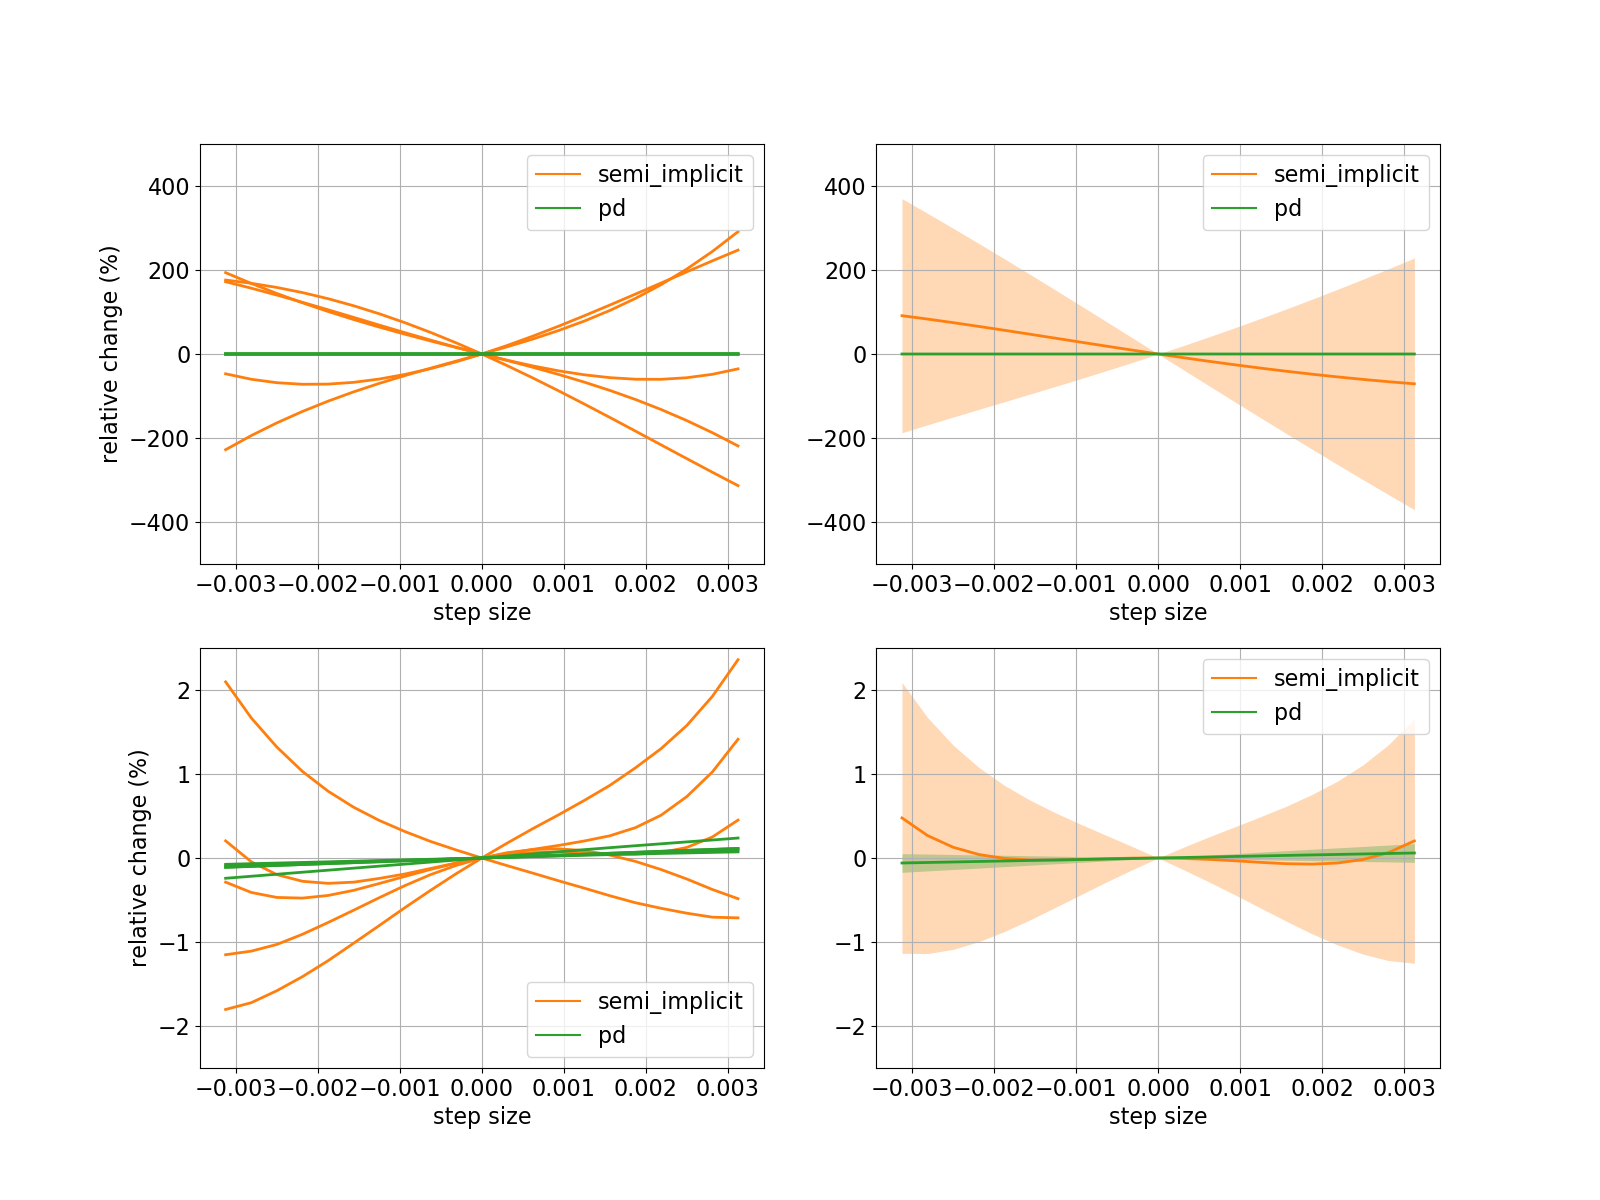
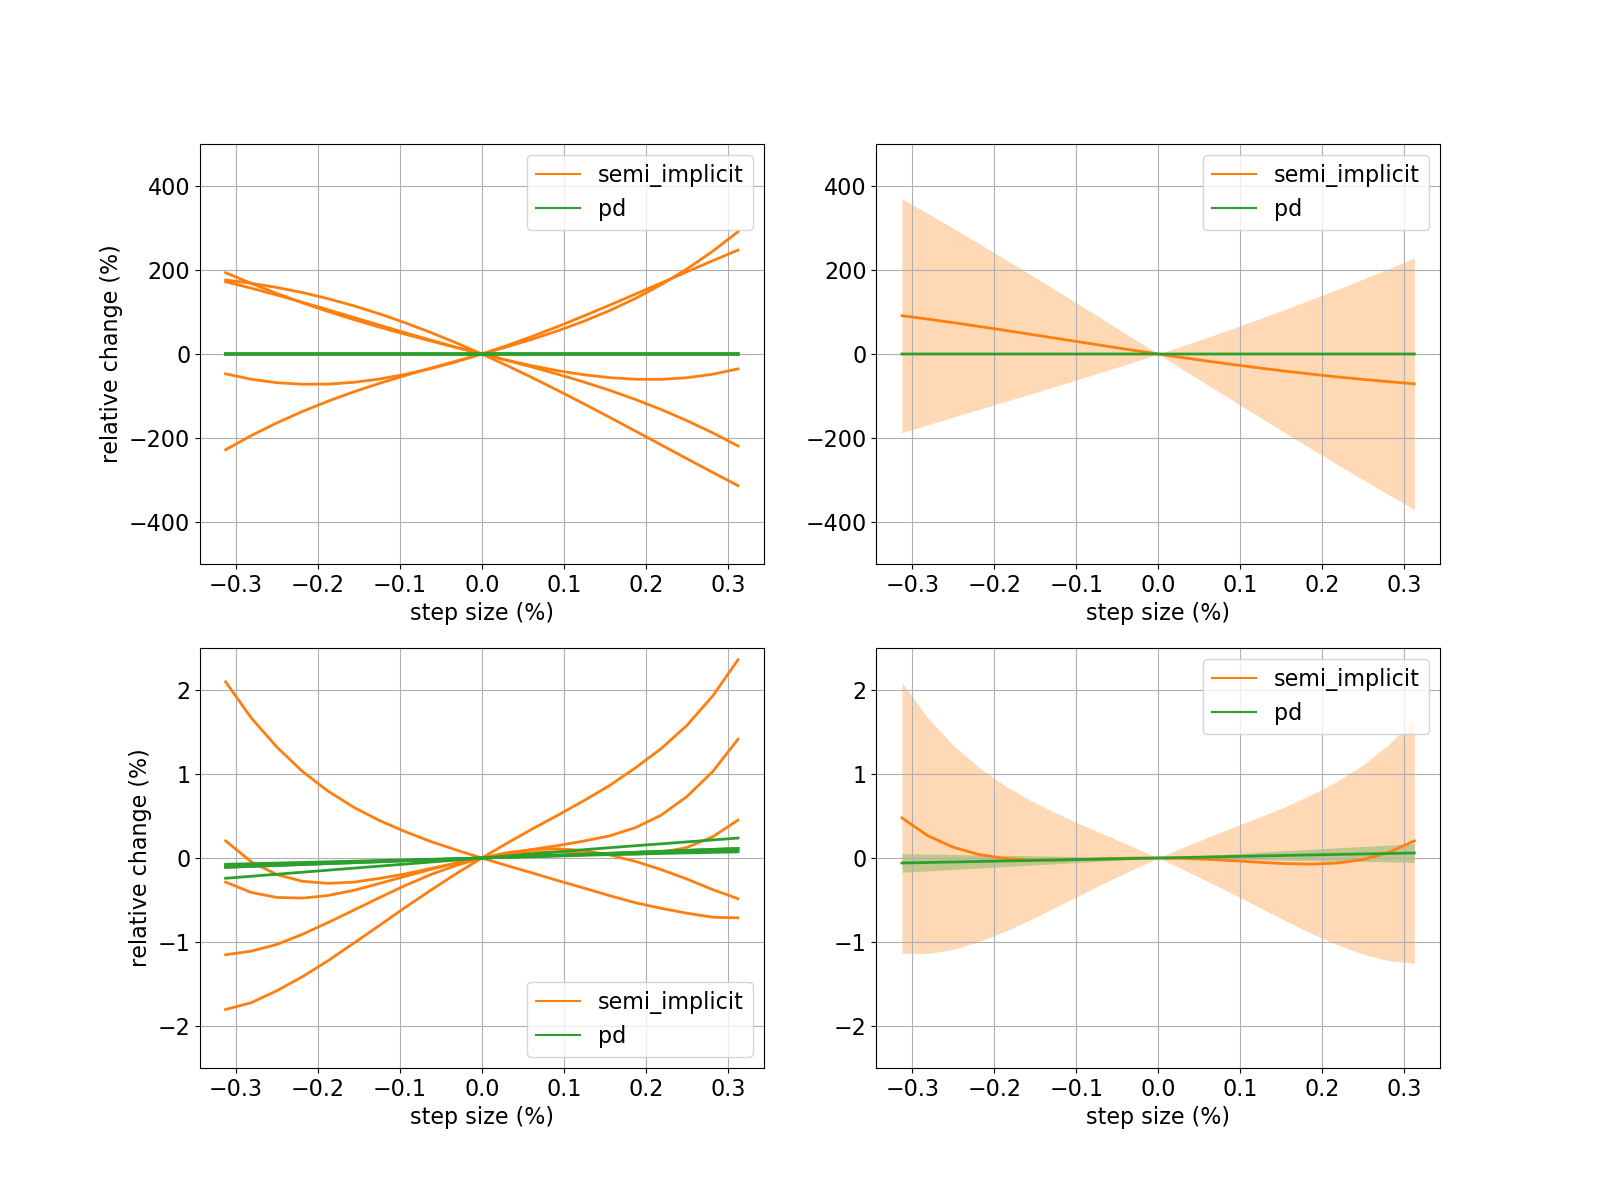
Adjust figure axes in landscape_3d. [skip ci]

diff --git a/python/example/print_landscape_3d_table.py b/python/example/print_landscape_3d_table.py
@@ -40,8 +40,8 @@ if __name__ == '__main__':
         losses = all_losses[method]
         ax_loss_sample.plot([], [], color=color, label=method)
         for loss in losses[:5]:
-            ax_loss_sample.plot(ss * rel_scale, (loss - 1) * 100, color=color, linewidth=2)
-    ax_loss_sample.set_xlabel('step size')
+            ax_loss_sample.plot((ss * rel_scale) * 100, (loss - 1) * 100, color=color, linewidth=2)
+    ax_loss_sample.set_xlabel('step size (%)')
     ax_loss_sample.set_ylabel('relative change (%)')
     ax_loss_sample.set_ylim([-500, 500])
     ax_loss_sample.grid(True)
@@ -53,11 +53,10 @@ if __name__ == '__main__':
         ax_loss_all.plot([], [], color=color, label=method)
         loss_mean = np.mean(ndarray(losses), axis=0)
         loss_std = np.std(ndarray(losses), axis=0)
-        ax_loss_all.plot(ss * rel_scale, (loss_mean - 1) * 100, color=color, linewidth=2)
-        ax_loss_all.fill_between(ss * rel_scale, (loss_mean - 1 - loss_std) * 100,
+        ax_loss_all.plot((ss * rel_scale) * 100, (loss_mean - 1) * 100, color=color, linewidth=2)
+        ax_loss_all.fill_between((ss * rel_scale) * 100, (loss_mean - 1 - loss_std) * 100,
             (loss_mean - 1 + loss_std) * 100, color=color, alpha=0.3, linewidth=0)
-
-    ax_loss_all.set_xlabel('step size')
+    ax_loss_all.set_xlabel('step size (%)')
     ax_loss_all.set_ylim([-500, 500])
     ax_loss_all.grid(True)
     ax_loss_all.legend()
@@ -68,8 +67,8 @@ if __name__ == '__main__':
         ax_grad_sample.plot([], [], color=color, label=method)
         for grad in grads[:5]:
             g = [np.linalg.norm(g[0]) for g in grad]
-            ax_grad_sample.plot(ss * rel_scale, (g / np.linalg.norm(grad_base[method]) - 1) * 100, color=color, linewidth=2)
-    ax_grad_sample.set_xlabel('step size')
+            ax_grad_sample.plot((ss * rel_scale) * 100, (g / np.linalg.norm(grad_base[method]) - 1) * 100, color=color, linewidth=2)
+    ax_grad_sample.set_xlabel('step size (%)')
     ax_grad_sample.set_ylabel('relative change (%)')
     ax_grad_sample.set_ylim([-2.5, 2.5])
     ax_grad_sample.grid(True)
@@ -82,11 +81,10 @@ if __name__ == '__main__':
         g = ndarray([[np.linalg.norm(g[0]) for g in grad] for grad in grads]) / np.linalg.norm(grad_base[method])
         g_mean = np.mean(g, axis=0)
         g_std = np.std(g, axis=0)
-        ax_grad_all.plot(ss * rel_scale, (g_mean - 1) * 100, color=color, linewidth=2)
-        ax_grad_all.fill_between(ss * rel_scale, (g_mean - 1 - g_std) * 100,
+        ax_grad_all.plot((ss * rel_scale) * 100, (g_mean - 1) * 100, color=color, linewidth=2)
+        ax_grad_all.fill_between((ss * rel_scale) * 100, (g_mean - 1 - g_std) * 100,
             (g_mean - 1 + g_std) * 100, color=color, alpha=0.3, linewidth=0)
-
-    ax_grad_all.set_xlabel('step size')
+    ax_grad_all.set_xlabel('step size (%)')
     ax_grad_all.set_ylim([-2.5, 2.5])
     ax_grad_all.grid(True)
     ax_grad_all.legend()
